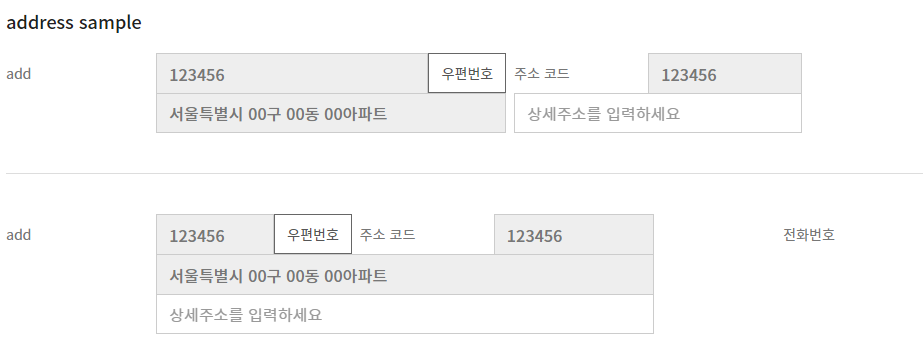
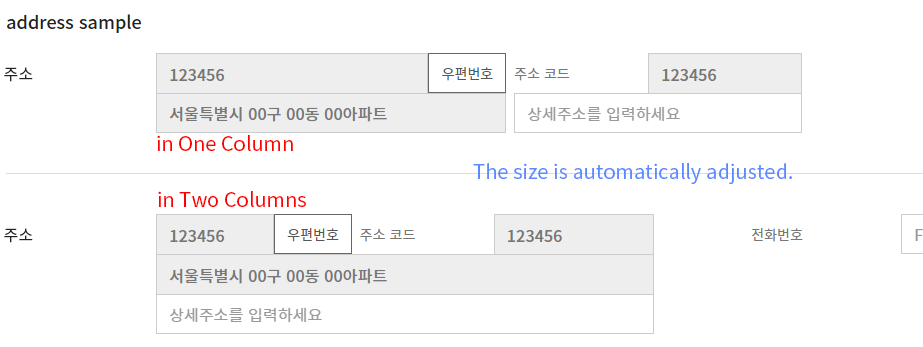
form 보강

diff --git a/dev/src/pages/publish/components/collections/Form.vue b/dev/src/pages/publish/components/collections/Form.vue
@@ -913,7 +913,7 @@ const EmailCode = `
 const AddressCode = `
 <kw-form-row>
   <kw-form-item
-    label="postCode"
+    label="주소"
   >
     <zwcm-post-code />
   </kw-form-item>
